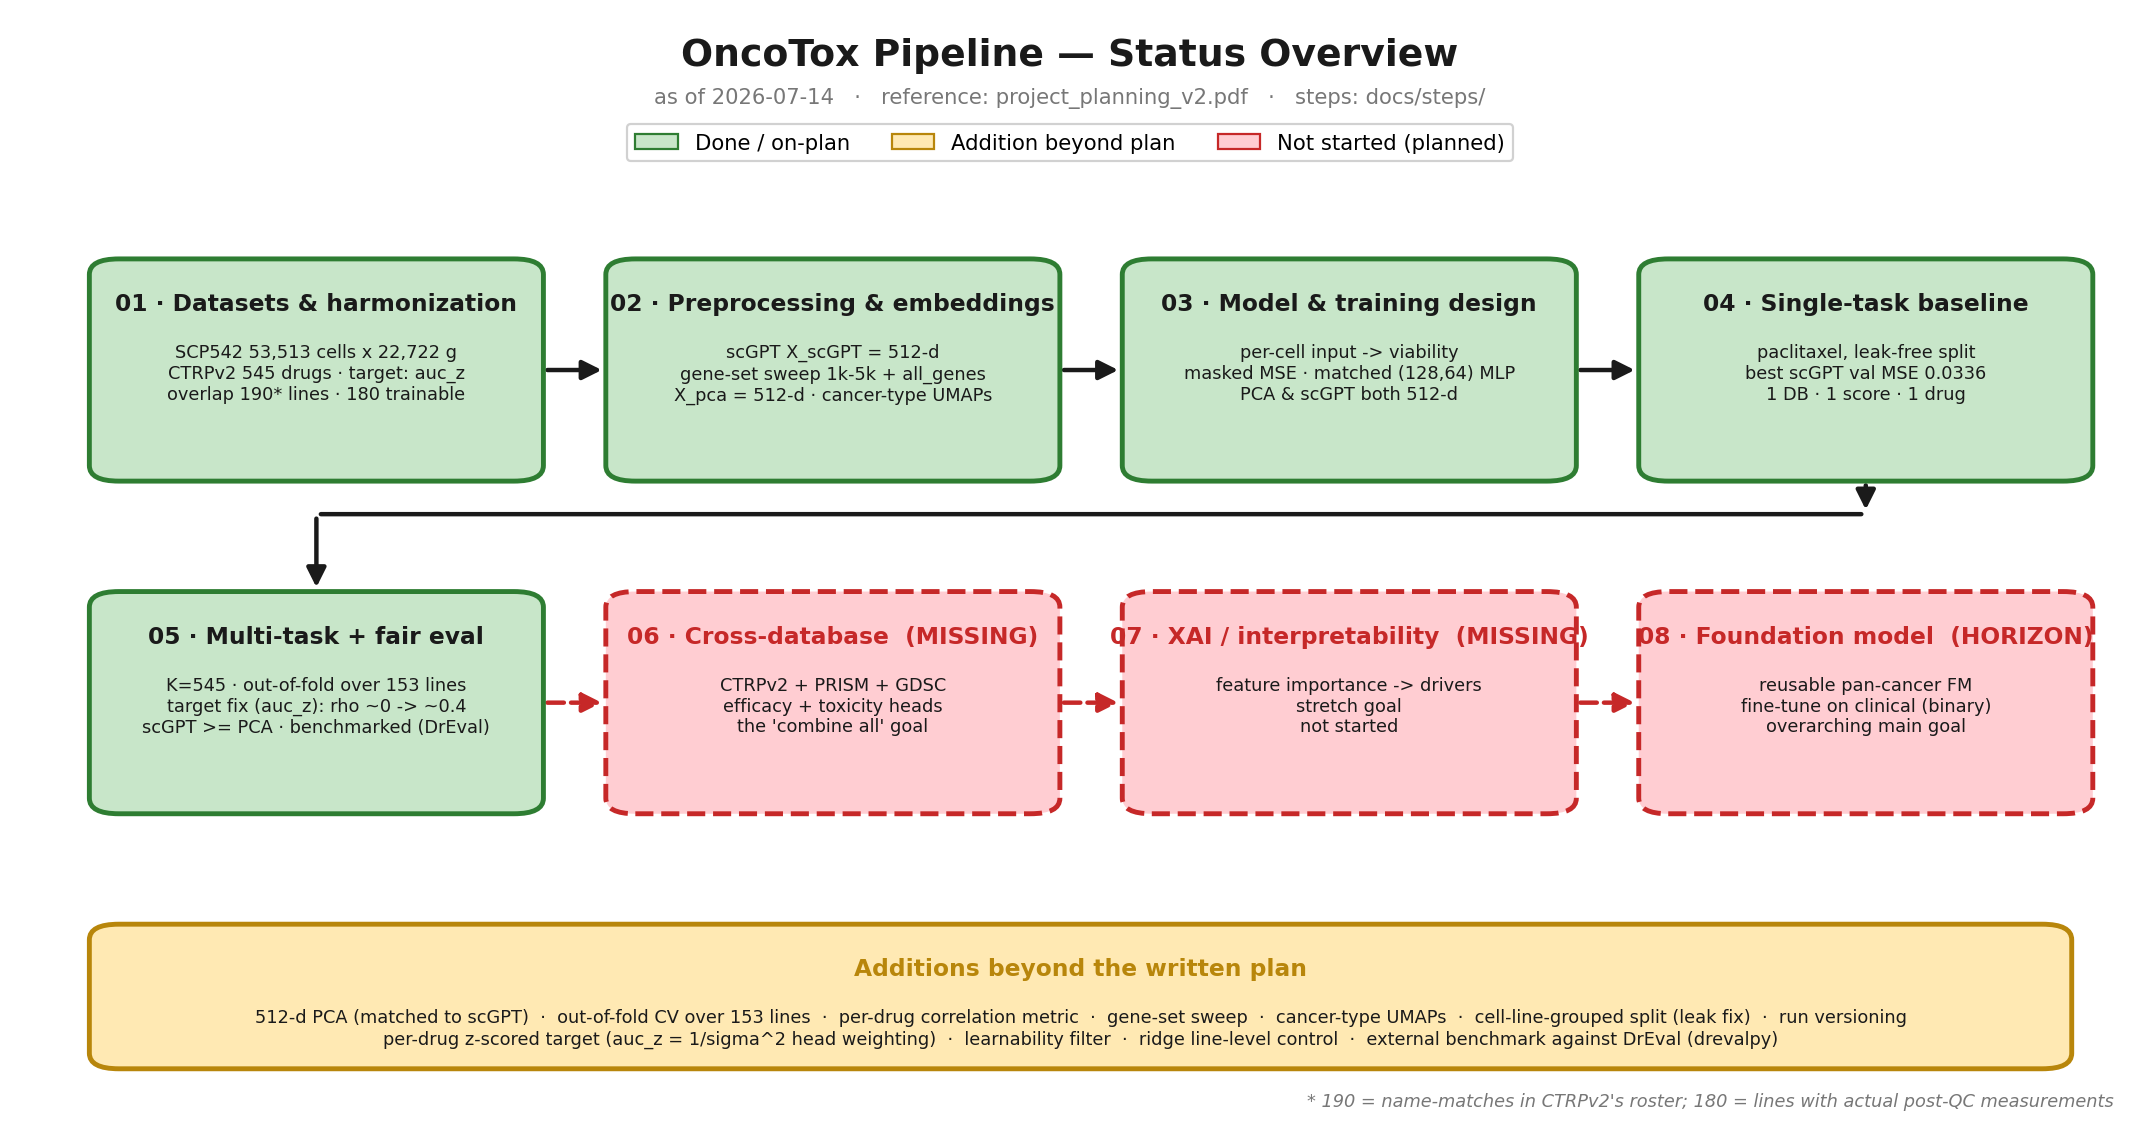
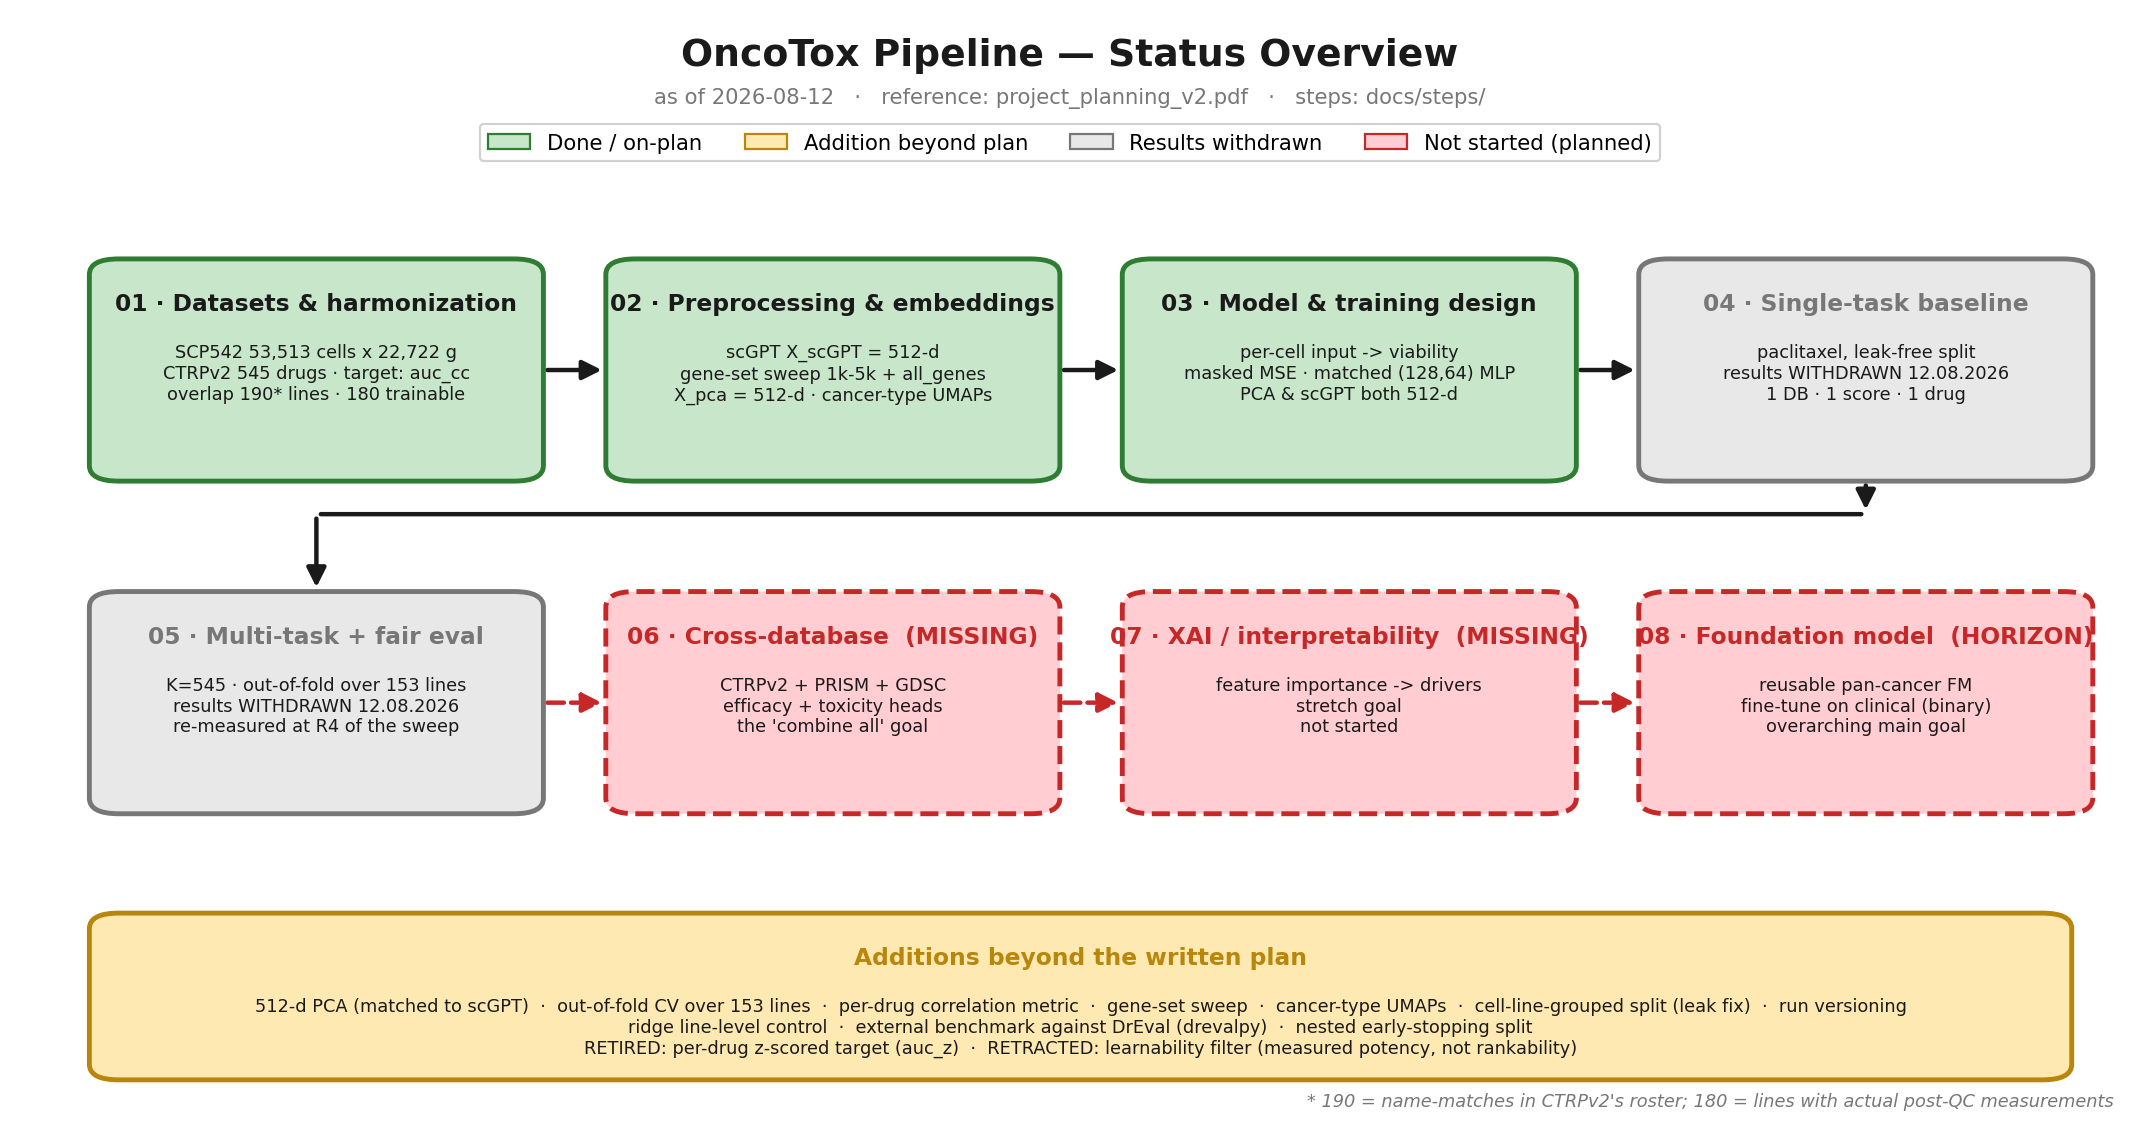
figures: the README front page was showing withdrawn model results
pipeline_overview.png named "best scGPT val MSE 0.0336" and "target fix
(auc_z): rho ~0 -> ~0.4" on the repository's front page, months after
commit 1971990 withdrew every model result from the report. A reader
landing on the repo read them as current.

That figure is a PURE DRAWING -- no figure_data(), no panel CSVs -- so it
was corrected and re-rendered without reading a single frozen artifact,
which is what made this doable under the 03.08 freeze. Verified by
rendering it in isolation and diffing the directory: only that one PNG
changed.

  boxes 04 and 05  now grey, "results WITHDRAWN 12.08.2026", with a new
                   legend entry. Grey rather than amber because amber
                   already means "addition beyond plan" in this figure.
                   The boxes say withdrawn rather than dropping the number
                   silently: a status figure with the figure removed reads
                   as a stage never measured, which is not what happened.
  box 01           target auc_z -> auc_cc
  date             2026-07-14 -> 2026-08-12
  additions band   auc_z and the learnability filter were listed flat
                   among the achievements. Now labelled RETIRED and
                   RETRACTED, and the band is taller because relabelling
                   cost a third line. Found by looking at the rendered
                   image, not by reading the code.

The five data-driven figures are NOT regenerated -- they read the targets
[…]

diff --git a/docs/make_figures.py b/docs/make_figures.py
@@ -80,18 +80,19 @@ def build_pipeline():
 
     ax.text(50, 98, "OncoTox Pipeline — Status Overview", ha="center", va="top",
             fontsize=17, fontweight="bold", color=INK)
-    ax.text(50, 93.5, "as of 2026-07-14   ·   reference: project_planning_v2.pdf   ·   steps: docs/steps/",
+    ax.text(50, 93.5, "as of 2026-08-12   ·   reference: project_planning_v2.pdf   ·   steps: docs/steps/",
             ha="center", va="top", fontsize=9.5, color=GREY)
     handles = [
         mpatches.Patch(facecolor=GREEN_FILL, edgecolor=GREEN, label="Done / on-plan"),
         mpatches.Patch(facecolor=AMBER_FILL, edgecolor=AMBER, label="Addition beyond plan"),
+        mpatches.Patch(facecolor=GREY_FILL, edgecolor=GREY, label="Results withdrawn"),
         mpatches.Patch(facecolor=RED_FILL, edgecolor=RED, label="Not started (planned)"),
     ]
     ax.legend(handles=handles, loc="center", bbox_to_anchor=(0.5, 0.885),
-              ncol=3, fontsize=9.5, frameon=True, framealpha=0.9)
+              ncol=4, fontsize=9.5, frameon=True, framealpha=0.9)
 
     box(ax, XS[0], ROW_A, W, H, "01 · Datasets & harmonization",
-        ["SCP542 53,513 cells x 22,722 g", "CTRPv2 545 drugs · target: auc_z",
+        ["SCP542 53,513 cells x 22,722 g", "CTRPv2 545 drugs · target: auc_cc",
          "overlap 190* lines · 180 trainable"], GREEN, GREEN_FILL)
     box(ax, XS[1], ROW_A, W, H, "02 · Preprocessing & embeddings",
         ["scGPT X_scGPT = 512-d", "gene-set sweep 1k-5k + all_genes",
@@ -99,13 +100,18 @@ def build_pipeline():
     box(ax, XS[2], ROW_A, W, H, "03 · Model & training design",
         ["per-cell input -> viability", "masked MSE · matched (128,64) MLP",
          "PCA & scGPT both 512-d"], GREEN, GREEN_FILL)
+    # Results withdrawn 12.08.2026 -- the target was replaced, the panel rebuilt, and the
+    # representations predate the preprocessing corrections. These boxes named specific numbers
+    # ("best scGPT val MSE 0.0336"; "target fix (auc_z): rho ~0 -> ~0.4") until then. They say so
+    # rather than quietly dropping them: a status figure with the number silently removed reads as
+    # a stage that was never measured, which is not what happened.
     box(ax, XS[3], ROW_A, W, H, "04 · Single-task baseline",
-        ["paclitaxel, leak-free split", "best scGPT val MSE 0.0336",
-         "1 DB · 1 score · 1 drug"], GREEN, GREEN_FILL)
+        ["paclitaxel, leak-free split", "results WITHDRAWN 12.08.2026",
+         "1 DB · 1 score · 1 drug"], GREY, GREY_FILL, title_color=GREY)
 
     box(ax, XS[0], ROW_B, W, H, "05 · Multi-task + fair eval",
-        ["K=545 · out-of-fold over 153 lines", "target fix (auc_z): rho ~0 -> ~0.4",
-         "scGPT >= PCA · benchmarked (DrEval)"], GREEN, GREEN_FILL)
+        ["K=545 · out-of-fold over 153 lines", "results WITHDRAWN 12.08.2026",
+         "re-measured at R4 of the sweep"], GREY, GREY_FILL, title_color=GREY)
     box(ax, XS[1], ROW_B, W, H, "06 · Cross-database  (MISSING)",
         ["CTRPv2 + PRISM + GDSC", "efficacy + toxicity heads",
          "the 'combine all' goal"], RED, RED_FILL, title_color=RED, dashed=True)
@@ -116,12 +122,16 @@ def build_pipeline():
         ["reusable pan-cancer FM", "fine-tune on clinical (binary)",
          "overarching main goal"], RED, RED_FILL, title_color=RED, dashed=True)
 
-    BAND_Y, BAND_H = 5, 13
+    # BAND_H raised from 13 on 12.08.2026: the band gained a third line when the retired auc_z
+    # target and the retracted learnability filter were relabelled rather than deleted.
+    BAND_Y, BAND_H = 4, 15
     box(ax, XS[0], BAND_Y, 94, BAND_H, "Additions beyond the written plan",
         ["512-d PCA (matched to scGPT)  ·  out-of-fold CV over 153 lines  ·  per-drug correlation metric  ·  "
          "gene-set sweep  ·  cancer-type UMAPs  ·  cell-line-grouped split (leak fix)  ·  run versioning\n"
-         "per-drug z-scored target (auc_z = 1/sigma^2 head weighting)  ·  learnability filter  ·  "
-         "ridge line-level control  ·  external benchmark against DrEval (drevalpy)"],
+         "ridge line-level control  ·  external benchmark against DrEval (drevalpy)  ·  "
+         "nested early-stopping split\n"
+         "RETIRED: per-drug z-scored target (auc_z)  ·  RETRACTED: learnability filter (measured potency, "
+         "not rankability)"],
         AMBER, AMBER_FILL, title_color=AMBER)
 
     for i in range(3):

diff --git a/docs/project_progress.md b/docs/project_progress.md
@@ -47,13 +47,21 @@ A standalone LaTeX write-up of the current state lives in [`../report/`](../repo
 What actually runs, stage by stage: the sparse (cell line × drug) response matrix, the drug panel
 funnel, the cell-line-grouped folds, the two representations that are compared, the per-cell MLP,
 the weighted loss, and the out-of-fold scoring. Details in
-[Step 03](steps/03-model-and-training-design.md); the current numbers in the working report.
+[Step 03](steps/03-model-and-training-design.md).
+
+> ⛔ **Computed on the retired `auc` target, winsorized at 1.1, and the void 8-drug panel.** The
+> stage-by-stage *shape* is current; the numbers and the drug list are not. Regenerated at R4 of the
+> sweep — not before, because it reads pipeline artifacts the [freeze](TODO.md) holds. The same applies
+> to `model_architecture.png`, `loss_02_weights.png` and `loss_03_effect.png`.
 
 ![OncoTox pipeline status overview](./figures/pipeline_overview.png)
 
-Green = done / on-plan · amber = addition or partial · red (dashed) = still missing.
-Stages 1–6 are complete; the red boxes (cross-database PRISM/GDSC heads and the XAI stretch goal)
-are the remaining work.
+Green = done / on-plan · amber = addition beyond plan · grey = results withdrawn · red (dashed) = still
+missing. Stages 1–3 are complete; **stages 4 and 5 have had every model result withdrawn** (12.08.2026 —
+the target was replaced, the panel rebuilt, and the representations predate the preprocessing
+corrections), and they are re-measured at R4. The red boxes — cross-database PRISM/GDSC heads and the
+XAI stretch goal — are the unstarted work. This figure is a pure drawing and carries no data, so it was
+corrected and re-rendered on 12.08.2026 without touching a frozen artifact.
 
 ### The figure set
 

diff --git a/README.md b/README.md
@@ -23,12 +23,20 @@ All project documentation lives in [`docs/`](docs/):
 
 ![OncoTox pipeline](docs/figures/pipeline.png)
 
+> ⛔ **This figure is computed on the retired `auc` target, winsorized at 1.1, and the void 8-drug
+> panel** — both superseded on 11.–12.08.2026. Its shape is current; its numbers and its drug list are
+> not. It is regenerated at R4 of the sweep, and is not regenerated before then because doing so would
+> mean re-running the pipeline under the
+> [freeze](docs/TODO.md).
+
 ### Status against the plan
 
 ![OncoTox pipeline status overview](docs/figures/pipeline_overview.png)
 
 All figures live in [docs/figures/](docs/figures/) and are regenerated together with
-`uv run docs/make_figures.py`.
+`uv run docs/make_figures.py`. ⛔ **Only the status overview above is current.** The other five were
+computed on the retired target and the void panel; the same applies to `model_architecture.png`,
+`loss_02_weights.png` and `loss_03_effect.png`. They are relabelled, not recomputed, until R4.
 
 ## Layout
 
